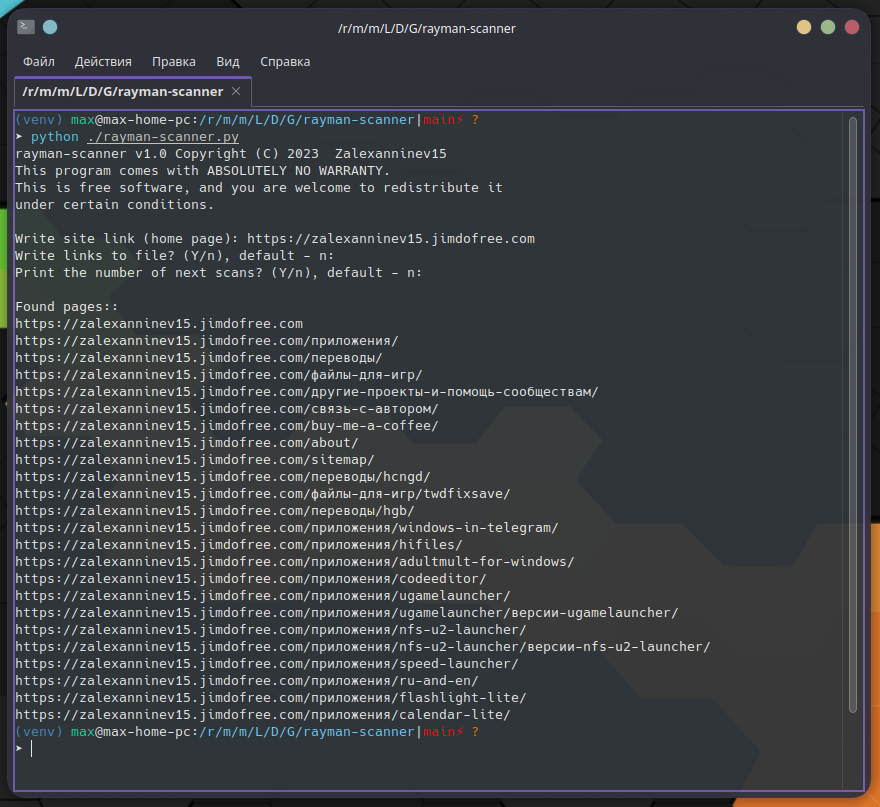
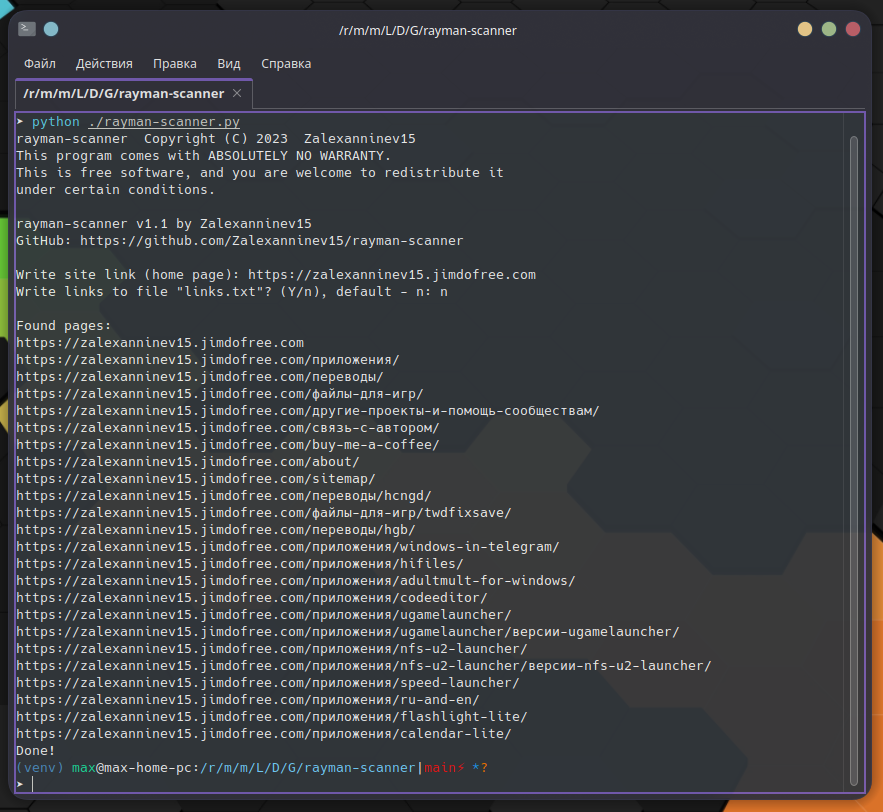
Version 1.1
Changes:
- Improved verification and correction of the site page address when entering in the terminal:
> Added a check for spaces and the absence of "http" in the link to the site
> Added a check for the existence of a website on the Internet
- Filter improvements
- Improved the definition of links on the site
- More information about the project and found pages is provided for output to console
- The output of unnecessary information has been removed, information about links is no longer output when creating a file (this made it possible to slightly reduce the running time of the script)
- The file for recording site pages has been renamed to "pages.txt "
- Removed the output of the information "Number of next scans", because this information may be displayed with errors due to improved site scanning

diff --git a/rayman-scanner.py b/rayman-scanner.py
@@ -18,18 +18,20 @@
 import requests
 from bs4 import BeautifulSoup
 
-print('''rayman-scanner v1.0 Copyright (C) 2023  Zalexanninev15
+print('''rayman-scanner  Copyright (C) 2023  Zalexanninev15
 This program comes with ABSOLUTELY NO WARRANTY.
 This is free software, and you are welcome to redistribute it
 under certain conditions.''')
+print("\nrayman-scanner v1.1 by Zalexanninev15\nGitHub: https://github.com/Zalexanninev15/rayman-scanner\n")
 
-website = input("\nWrite site link (home page): ")
-write_to_file = input("Write links to file? (Y/n), default - n: ")
-next = input("Print the number of next scans? (Y/n), default - n: ")
+base_url = input("Write site link (home page): ")
+write_to_file = input("Write links to file \"links.txt\"? (Y/n), default - n: ")
 
-base_url = website
-if website.endswith('/'):
-    base_url = website[:-1]
+base_url = base_url.replace(" ", "")
+if base_url.endswith('/'):
+    base_url = base_url[:-1]
+if not base_url.startswith("http"):
+    base_url = f"https://{base_url}"
 
 scanned = []
 
@@ -39,56 +41,68 @@ def clean(a_eles):
     for a in a_eles:
         link = a['href']
         # What should not be included in the list of links
-        if link.startswith('#') or link.startswith('mailto:') or link == '/' or 'www.jimdo.com' in link or "/" * 2 in link or "login" in link or "javascript" in link or "privacy" in link:
+        if link.startswith('#') or link.startswith('mailto:') or link == '/' or link == f"{base_url}/" or 'www.jimdo.com' in link or "login" in link or "javascript" in link or "privacy" in link:
             skip_links.append(link)
             continue
 
         if link.startswith('/'):
             link = '{}{}'.format(base_url, link)
 
-        if link.startswith('http://') != True and link.startswith('https://') != True:
+        if not link.startswith('http://') and not link.startswith('https://'):
             link = '{}/{}'.format(base_url, link)
 
-        if link.startswith(base_url) is False:
+        if not link.startswith(base_url):
             continue
 
         if link not in links:
             links.append(link)
 
-    return [links, skip_links]
-
+    return links
 
 def get_next_scan_urls(urls):
     links = []
     for u in urls:
-        if u not in scanned:
+        if not u in scanned:
             links.append(u)
     return links
 
-
 def scan(url):
     if url not in scanned:
-        print('{}'.format(url))
+        if not 'y' in write_to_file.lower():
+            print('{}'.format(url))
         scanned.append(url)
         data = requests.get(url)
         soup = BeautifulSoup(data.text, 'html5lib')
         a_eles = soup.find_all('a', href=True)
-        links, skip_links = clean(a_eles)
+        links = clean(a_eles)
         next_scan_urls = get_next_scan_urls(links)
-        if 'y' in next.lower():
-            print('Number of next scans: {}'.format(len(next_scan_urls)))
         if len(next_scan_urls) != 0:
             for l in next_scan_urls:
                 scan(l)
     return scanned
 
+def site_checker():
+    try:
+        response = requests.get(base_url)
+        if response.ok:
+            return True
+        else:
+            return False
+    except:
+        return False
 
 def main():
-    print("\nFound pages::")
-    links = scan(website)
-    if 'y' in write_to_file.lower():
-        with open("site.txt", 'w') as file:
-            file.writelines(line + '\n' for line in links)
+    if site_checker() and "http" in website:
+        print("\nFound pages:")
+        if 'y' in write_to_file.lower():
+            print("Already looking, you can see the result in the \"list.txt\" file when I do work.")
+        links = scan(base_url)
+        if 'y' in write_to_file.lower():
+            with open("pages.txt", 'w') as file:
+                file.writelines(f"{line}\n" for line in links)
+        print("Done!")
+    else:
+        print("\nThis page either does not exist or is out!\nRun the script again and enter/paste the link")
 
 if __name__ == '__main__':
     main()

diff --git a/README.md b/README.md
@@ -2,7 +2,7 @@
 
 [![](https://img.shields.io/badge/platforms-All_with_Python-3778AE.svg)](https://github.com/Zalexanninev15/rayman-scanner)
 [![](https://img.shields.io/badge/written_on-Python-3776AB.svg?logo=python)](https://github.com/Zalexanninev15/rayman-scanner)
-[![](https://img.shields.io/badge/release-v1.0-blue.svg)](https://github.com/Zalexanninev15/rayman-scanner)
+[![](https://img.shields.io/badge/release-v1.1-blue.svg)](https://github.com/Zalexanninev15/rayman-scanner)
 [![](https://img.shields.io/github/last-commit/Zalexanninev15/rayman-scanner.svg)](https://github.com/Zalexanninev15/rayman-scanner/commits/master)
 [![](https://img.shields.io/github/stars/Zalexanninev15/rayman-scanner.svg)](https://github.com/Zalexanninev15/rayman-scanner/stargazers)
 [![](https://img.shields.io/github/forks/Zalexanninev15/rayman-scanner.svg)](https://github.com/Zalexanninev15/rayman-scanner/network/members)
@@ -11,7 +11,7 @@
 
 ## Screenshot
 
-![screenshot](https://user-images.githubusercontent.com/51060911/215284204-bf6c634a-4fd4-466b-bb93-9b13aaae4a6d.png)
+![screenshot](https://raw.githubusercontent.com/Zalexanninev15/rayman-scanner/main/screenshot.png)
 
 ## Description
 
